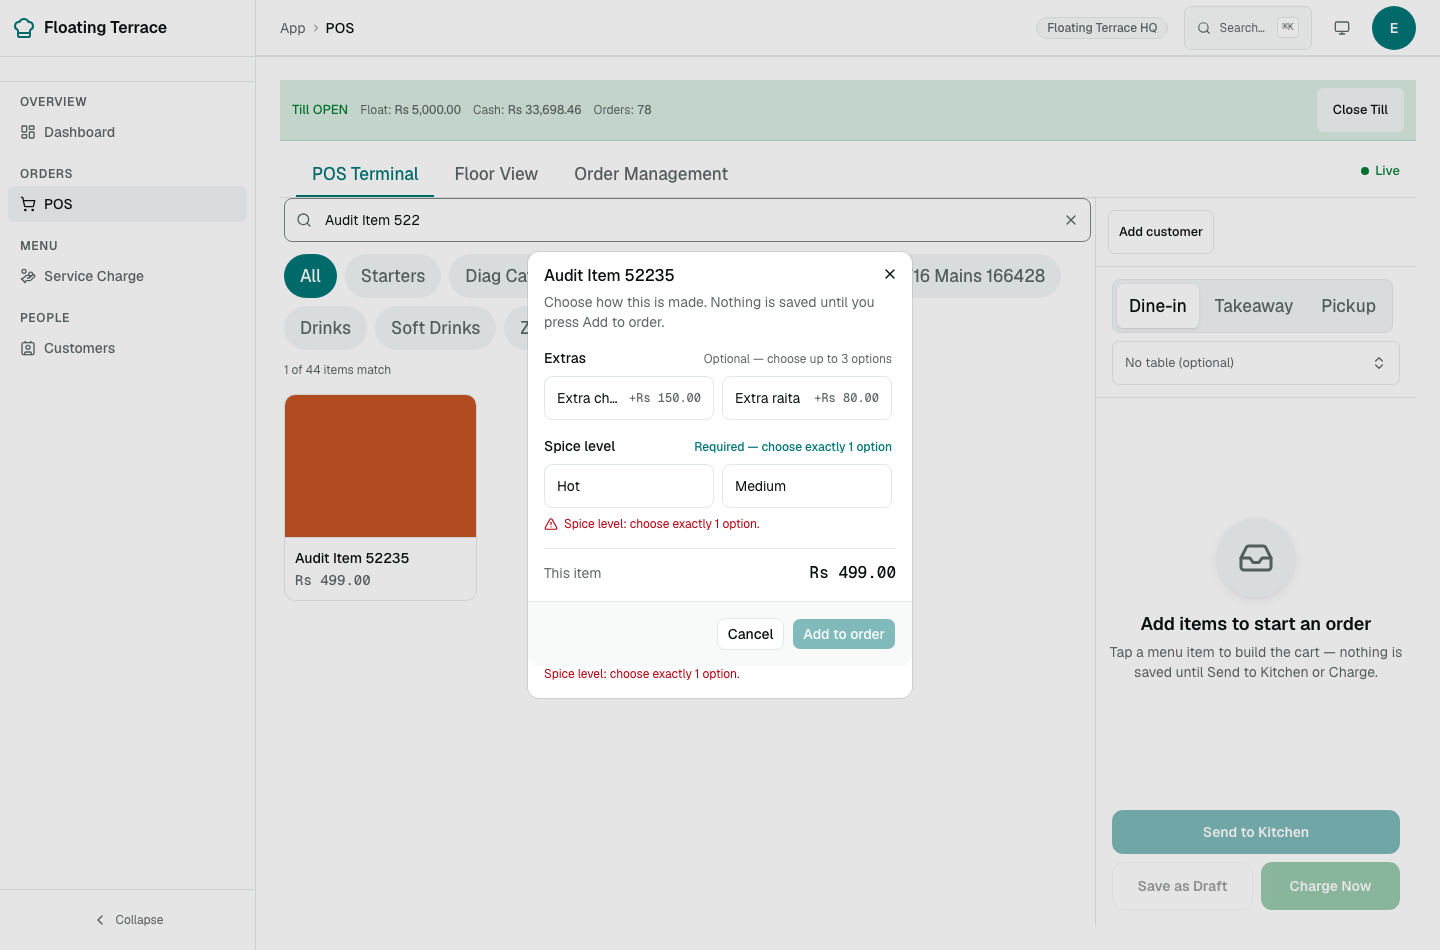
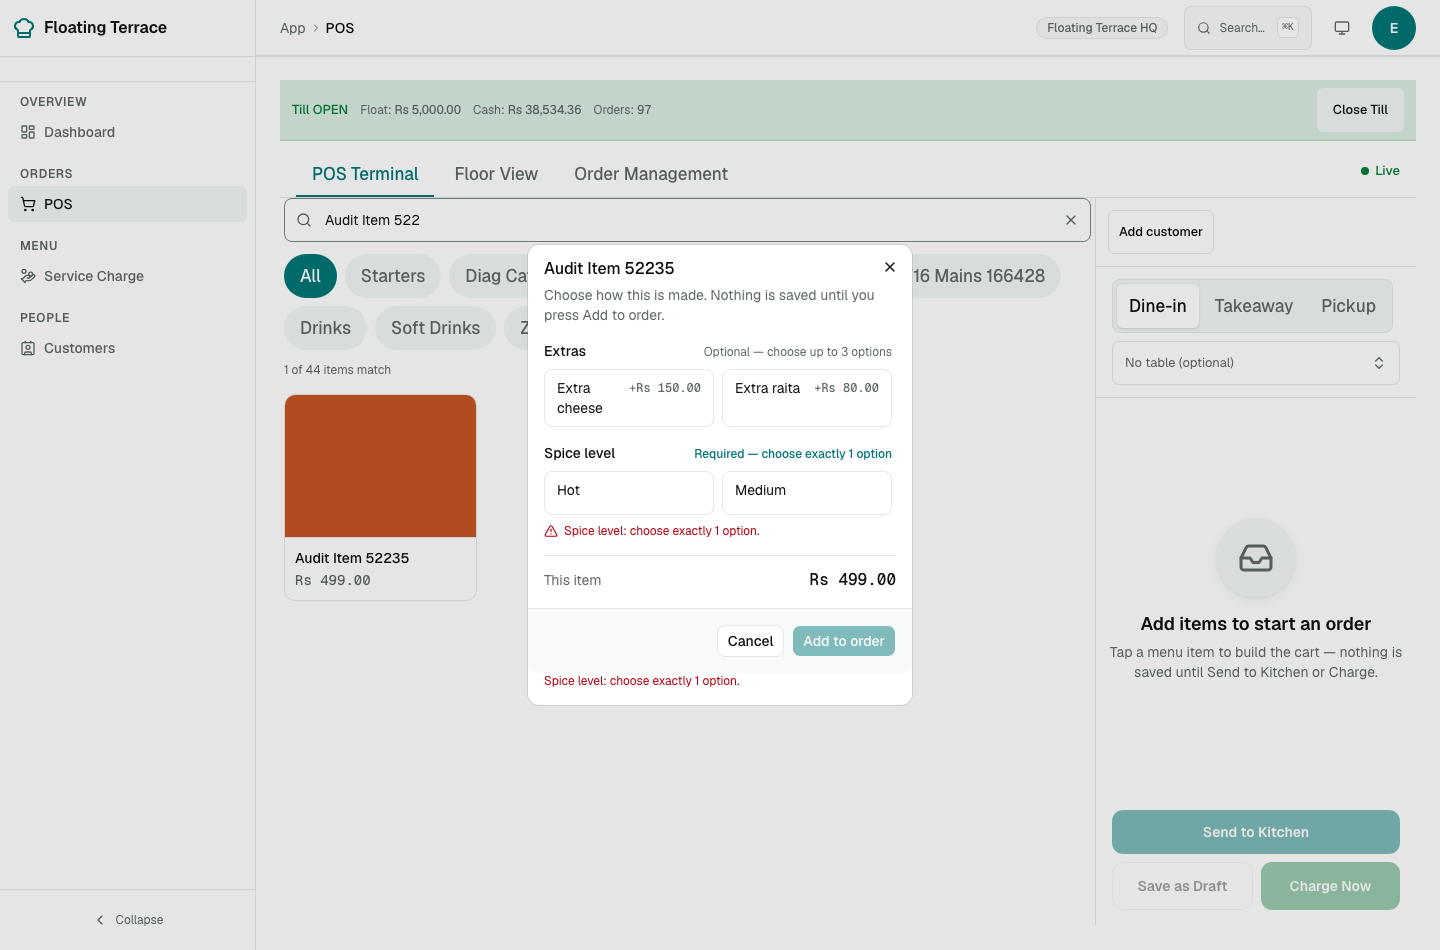
fix(S6): an option button read "Extra ch…" — two buttons a cashier cannot tell apart
The option name was `truncate`d inside a two-column grid, so on a till the Extras group
rendered "Extra ch…" beside "Extra ra…". Two adjacent buttons whose visible text is
identical for the first eight characters is a mis-punch, and a mis-punch here lands on
the guest's bill and on the chef's ticket.

The name now wraps to a second line and the price stays on one; the row is top-aligned so
a wrapped name does not push the price out of line. Re-driven at 390/768/1440 in both
themes: still no sideways scroll, smallest option target still 44px.

Screenshots refreshed from the same run.

Changed region(s): [[0.375, 0.2442, 0.625, 0.6411], [0.375, 0.58, 0.625, 0.7632]]

diff --git a/frontend/components/pos/modifier-dialog.tsx b/frontend/components/pos/modifier-dialog.tsx
@@ -216,18 +216,24 @@ export function ModifierDialog({
                           data-testid={`modifier-option-${option.id}`}
                           onClick={() => toggle(group, option.id)}
                           className={cn(
-                            "flex min-h-11 items-center justify-between gap-2 rounded-lg border px-3 py-2 text-left transition-colors active:scale-[0.98]",
+                            // `items-start` + a wrapping name, NOT `truncate`. A till button
+                            // reading "Extra ch…" beside another reading "Extra ra…" is two
+                            // buttons a cashier cannot tell apart at a glance, which is a
+                            // mis-punch on the guest's bill. Two lines is cheaper than that.
+                            "flex min-h-11 items-start justify-between gap-2 rounded-lg border px-3 py-2 text-left transition-colors active:scale-[0.98]",
                             on
                               ? "border-primary bg-primary/10 ring-1 ring-primary"
                               : "bg-card hover:border-primary hover:bg-accent",
                           )}
                         >
-                          <span className="flex min-w-0 items-center gap-2">
-                            {on && <Check className="size-3.5 shrink-0" aria-hidden="true" />}
-                            <span className="truncate text-sm">{option.name}</span>
+                          <span className="flex min-w-0 flex-1 items-start gap-2">
+                            {on && (
+                              <Check className="mt-0.5 size-3.5 shrink-0" aria-hidden="true" />
+                            )}
+                            <span className="text-sm break-words">{option.name}</span>
                           </span>
                           {option.priceDeltaPaisa !== 0 && (
-                            <span className="shrink-0 font-mono text-xs text-muted-foreground">
+                            <span className="mt-0.5 shrink-0 font-mono text-xs whitespace-nowrap text-muted-foreground">
                               {option.priceDeltaPaisa > 0 ? "+" : "−"}
                               <MoneyDisplay
                                 paisa={Math.abs(option.priceDeltaPaisa)}
